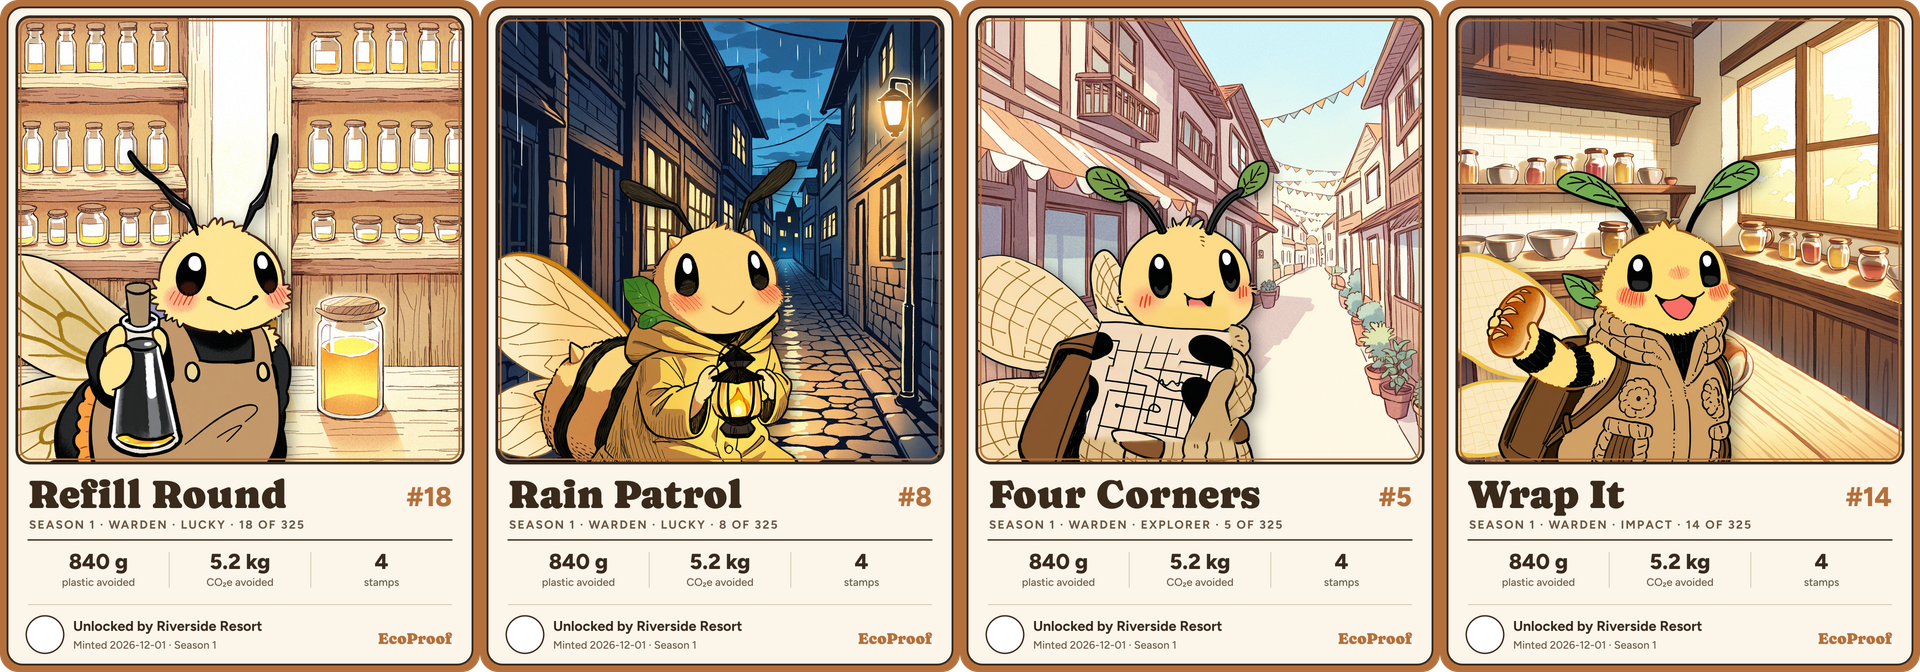
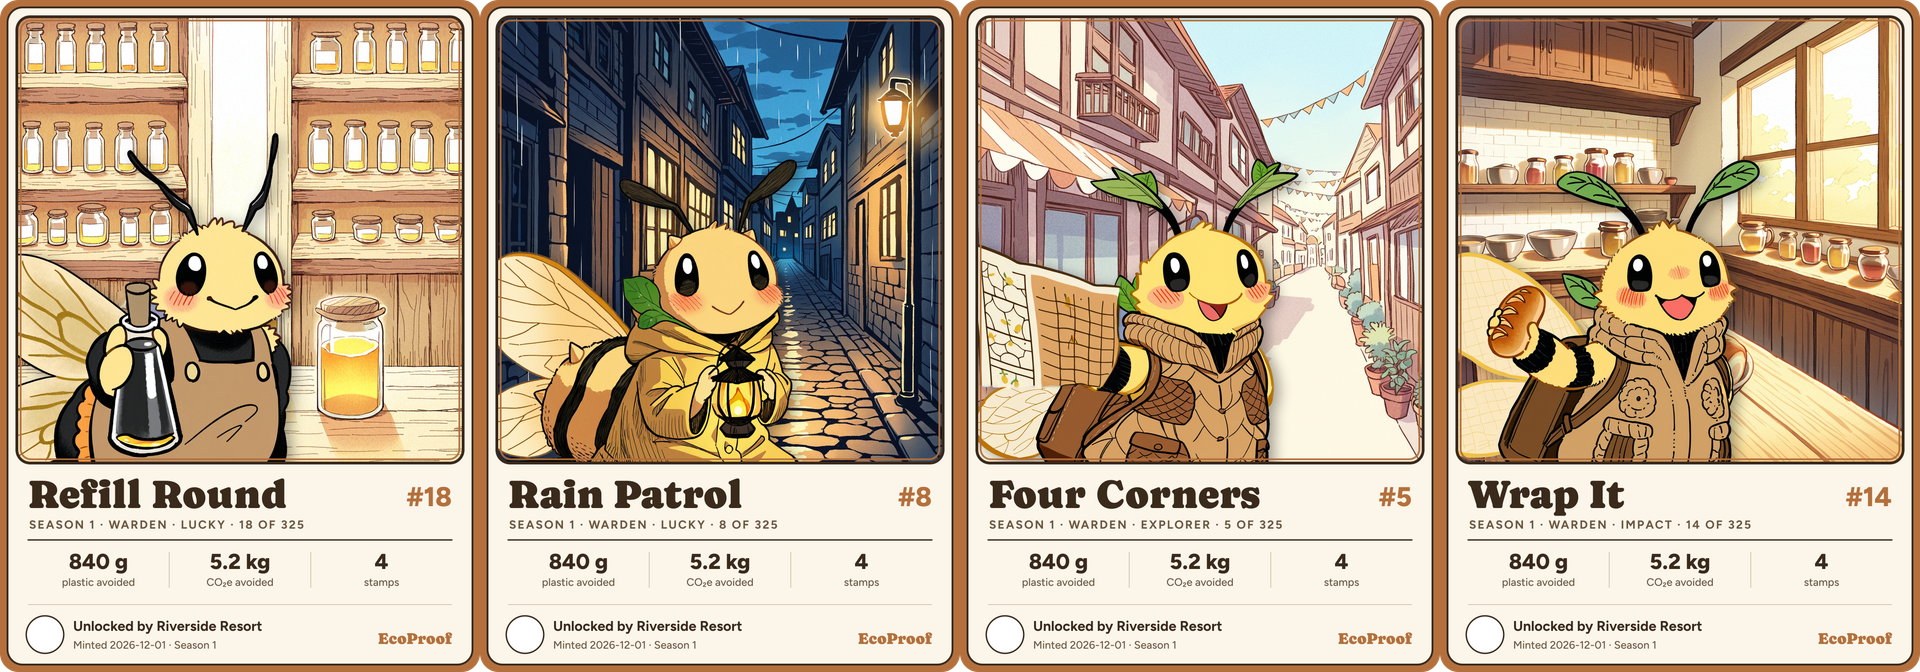
Season 1 art test: Four Corners with map, River Crossing with pole, plain bag on Market Day
Claude-Session: https://claude.ai/code/session_01HWHP3iugw8gkvvKKS5vpBj

Changed region(s): [[0.5, 0.2188, 0.6875, 0.6875]]

diff --git a/art/season1/pole.py b/art/season1/pole.py
@@ -1,0 +1,27 @@
+#!/usr/bin/env python3
+"""Season 1, River Crossing: the Guardian's walking pole. Painting a pole into the hand (fix.py) failed six times, so it is drawn:
+a rough wooden pole laid over a Guardian render with a raised fist, and the fist put back on top, so it grips the pole.
+Usage (WebUI venv python): pole.py <render.png> <fist x0,y0,x1,y1> <pole x at top,x at bottom> → river_crossing_bee_pole.png"""
+import sys, pathlib, random
+import numpy as np, cv2
+from PIL import Image, ImageDraw, ImageFilter
+D = pathlib.Path(__file__).parent
+src = Image.open(D/sys.argv[1]).convert("RGB"); x0, y0, x1, y1 = [int(v) for v in sys.argv[2].split(",")]; xt, xb = [int(v) for v in sys.argv[3].split(",")]
+a = np.asarray(src); hsv = cv2.cvtColor(a, cv2.COLOR_RGB2HSV)
+fist = (((hsv[..., 1] > 95) & (hsv[..., 0] > 12) & (hsv[..., 0] < 40)) | (hsv[..., 2] < 70)).astype(np.uint8)   # felt yellow or ink, not wing cream or sky
+box = np.zeros_like(fist); cv2.ellipse(box, ((x0 + x1)//2, (y0 + y1)//2), ((x1 - x0)//2, (y1 - y0)//2), 0, 0, 360, 1, -1); fist &= box
+fist = cv2.morphologyEx(fist, cv2.MORPH_CLOSE, np.ones((15, 15), np.uint8))
+n, lab, st, _ = cv2.connectedComponentsWithStats(fist, 4); fist = (lab == 1 + np.argmax(st[1:, cv2.CC_STAT_AREA])).astype(np.uint8)
+cnt, _ = cv2.findContours(fist, cv2.RETR_EXTERNAL, cv2.CHAIN_APPROX_SIMPLE); cv2.drawContours(fist, cnt, -1, 1, -1)
+W = 26; top, bot = 70, 1040; rnd = random.Random(4)
+pole = Image.new("RGBA", src.size, (0, 0, 0, 0)); d = ImageDraw.Draw(pole)
+L = [(xt + (xb - xt)*(y - top)/(bot - top) + rnd.uniform(-2.5, 2.5), y) for y in range(top, bot, 40)]
+d.line(L, fill=(58, 40, 28, 255), width=2*W + 8, joint="curve"); d.ellipse((L[0][0] - W - 4, top - W - 4, L[0][0] + W + 4, top + W + 4), fill=(58, 40, 28, 255))
+d.line(L, fill=(150, 104, 62, 255), width=2*W, joint="curve"); d.ellipse((L[0][0] - W, top - W, L[0][0] + W, top + W), fill=(150, 104, 62, 255))
+d.line([(x + 9, y) for x, y in L], fill=(176, 128, 80, 255), width=12, joint="curve")                       # lighter side
+for _ in range(26):                                                                                          # grain strokes
+    y = rnd.uniform(top, bot - 60); x = xt + (xb - xt)*(y - top)/(bot - top) + rnd.uniform(-W + 6, W - 8); h = rnd.uniform(25, 70)
+    d.line([(x, y), (x + rnd.uniform(-2, 2), y + h)], fill=(104, 70, 42, 255), width=2)
+out = src.convert("RGBA"); out.alpha_composite(pole)
+m = Image.fromarray(fist*255).filter(ImageFilter.GaussianBlur(0.8)); out.paste(src, (0, 0), m)
+out.convert("RGB").save(D/"river_crossing_bee_pole.png"); print("river_crossing_bee_pole.png")

diff --git a/art/season1/compose.py b/art/season1/compose.py
@@ -8,17 +8,17 @@ from PIL import Image, ImageFilter
 D = pathlib.Path(__file__).parent
 PICKS = {  # card: bee render, scene, size of the bee (1 = full width), x of its left edge, and optional repairs
  "morning_cup": dict(bee="morning_cup_bee_d78_66002_fix_3.png", scene="morning_cup_scene_63004.png", scale=0.80, x=-40),
- "market_day": dict(bee="market_day_bee_d70_84002.png", scene="market_day_scene_63001.png", scale=0.76, x=150),
+ "market_day": dict(bee="market_day_bee_d70_84002_fix_88002.png", scene="market_day_scene_63001.png", scale=0.76, x=150),
  # the render drew the antenna tips cream: darkened to the Sentinel's own brown-black
  "first_trail": dict(bee="first_trail_bee_d68_66001.png", scene="first_trail_scene_63004.png", scale=0.78, x=235, dark=[(370, 120, 610, 260), (790, 120, 1010, 260)]),
  "first_proof": dict(bee="first_proof_bee_d70_67002.png", scene="first_proof_scene_68002.png", scale=0.82, x=-150),
  "refill_round": dict(bee="refill_round_bee_d78_71001.png", scene="refill_round_scene_72002.png", scale=0.78, x=-90),
  "rain_patrol": dict(bee="rain_patrol_bee_d72_81003.png", scene="rain_patrol_scene_72003.png", scale=0.78, x=-60),
- "four_corners": dict(bee="four_corners_bee_d74_81004_fix_86001_fix_87002.png", scene="four_corners_scene_72003.png", scale=0.78, x=-80),
+ "four_corners": dict(bee="four_corners_base_b_fix_88001.png", scene="four_corners_scene_72003.png", scale=0.78, x=-40),
  "wrap_it": dict(bee="wrap_it_bee_d64_71005.png", scene="wrap_it_scene_72003.png", scale=0.78, x=-80),
  "hive_workshop": dict(bee="hive_workshop_bee_d78_71003.png", scene="hive_workshop_scene_72003.png", scale=0.78, x=-60),
  "night_watch": dict(bee="night_watch_bee_d78_71004.png", scene="night_watch_scene_72002.png", scale=0.78, x=-40),
- "river_crossing": dict(bee="river_crossing_bee_d70_84006.png", scene="river_crossing_scene_83001.png", scale=0.76, x=230),
+ "river_crossing": dict(bee="river_crossing_bee_pole.png", scene="river_crossing_scene_83001.png", scale=0.76, x=200),
  "kilo_keeper": dict(bee="kilo_keeper_bee_d64_71005.png", scene="kilo_keeper_scene_72003.png", scale=0.76, x=-110),
  "mountain_pass": dict(bee="mountain_pass_bee_d70_84003.png", scene="mountain_pass_scene_72002.png", scale=0.76, x=-60),
  "storm_flight": dict(bee="storm_flight_bee_d80_71004.png", scene="storm_flight_scene_72001.png", scale=0.76, x=-60),
